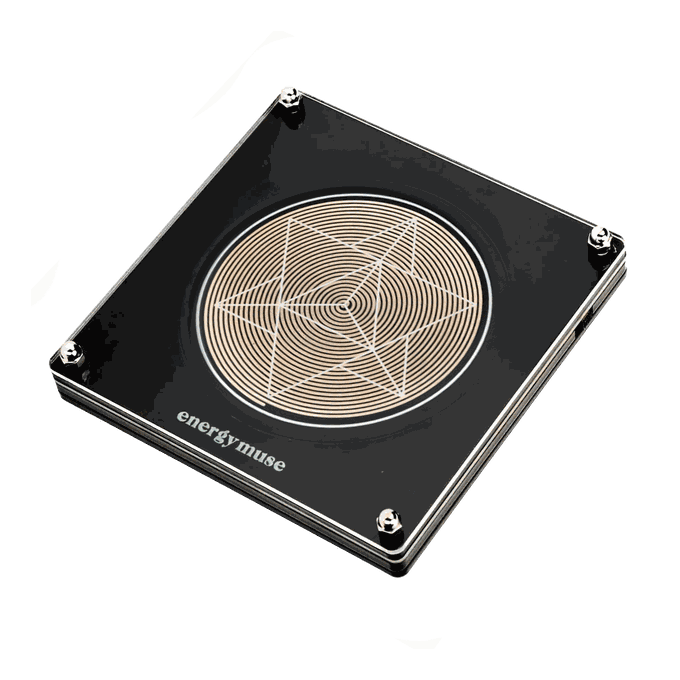
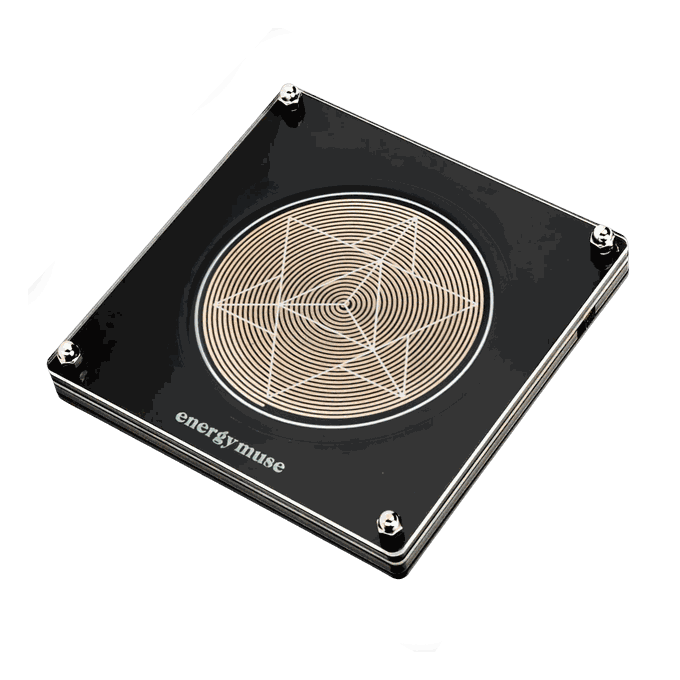
The generators stop looking like four different photo shoots
THE WISPS WERE IN THE FILE. White slashes hung around the 639Hz device on the
homepage and I went looking for the CSS drawing them — .fq-waves, .fq-core, a
resonance-ring layer. None of it had any markup on this page; the rules had
outlived their elements. The slashes were baked into 639.png itself, artefacts
left in the cut-out. Replaced from Energy Muse's own catalogue with the clean
three-quarter shot, matched to the set's framing.

THE 1111 WAS SHOT DEAD-ON while the other six are three-quarter, so it read as
a different photograph every time the ticker reached it. Their catalogue has an
angled shot of the same unit; it is in now. The body is still white where the
others are black glass — that is genuinely what the 1111 looks like, and
recolouring a real product is not on the table.

THE BOX BEHIND THE DEVICE was two things at once. #freq-poster carried
background:#070C15 against a #0B1320 section — near-black, but not the SAME
near-black, so it drew a rectangle. And the image carried border-radius and a
card box-shadow, which on a transparent cut-out shadows the BOX rather than the
object. Both gone; the generator floats on the navy with only its copper field
behind it. The dead .fqw / .fq-core / canvas rules went too.

NO HOVER ON THE GENERATOR CARDS. The lift and the image scale on /frequency/
and /systems/ jump under a cursor that crosses them mid-scroll, which reads as
a glitch rather than as feedback. Colour still responds; nothing moves.
[…]

diff --git a/index.html b/index.html
@@ -107,6 +107,17 @@ p{margin:0;}
 .eyebrow{font-family:var(--sans);font-weight:600;font-size:11.5px;letter-spacing:.28em;text-transform:uppercase;color:var(--accent);}
 .eyebrow.muted{color:var(--stone);}
 .section{padding-block:var(--step);}
+/* Two sections on the SAME ground stack their padding into a void: --step of
+   bottom pad meets --step of top pad — 308px at desktop — with no change of
+   colour to explain any of it. Where the background does change, the change
+   itself reads as the boundary and the full measure is right, which is why
+   this only shows up in the run of four plain sections in the lower half
+   (Small practices -> Everything you need -> Start with one stone -> Real
+   energy). Halve the top pad where the neighbour shares the ground. */
+.section:not(.band):not(.freq):not(.final-cta):not(.email)
+  + .section:not(.band):not(.freq):not(.final-cta):not(.email){
+  padding-top:calc(var(--step) * .42);
+}
 /* Short blocks even their lines rather than filling each one and orphaning
    whatever is left over. It cannot stop a sentence breaking, but it stops
    the break landing in the worst place available. */
@@ -819,12 +830,14 @@ body.menu-open{overflow:hidden;}
 .freq .eyebrow{color:var(--copper-hi);}
 .freq h2{color:var(--navy-text);}
 .freq .copy p{color:var(--navy-soft);}
-.freq .media{background:#070C15;}
+/* No fill. This was #070C15 against a #0B1320 section — near-black, but not
+   the SAME near-black, so it drew a visible rectangle behind a cut-out that
+   should simply float. */
+.freq .media{background:transparent;}
 /* the generator is photographed as a diamond; cover-cropping sliced its
    left and right points, so it is contained within the frame instead */
 .freq .media .t3d{overflow:visible;}
-#freq-poster{object-fit:contain!important;background:#070C15;}
-.freq .media canvas{object-fit:contain;}
+#freq-poster{object-fit:contain!important;background:transparent;}
 
 /* the readout: the number is the product, so it is set like one */
 .freq-hz{font-family:var(--serif);font-weight:300;font-size:clamp(52px,6vw,86px);
@@ -840,22 +853,19 @@ body.menu-open{overflow:hidden;}
 @keyframes signal{to{stroke-dashoffset:-52;}}
 /* live 3D device: no card box — the generator itself floats beside the copy */
 .freq .media.live3d{background:transparent;box-shadow:none;overflow:visible;border-radius:0;aspect-ratio:5/4;}
-/* wavy resonance rings: near-circular with a hint of the device's tilt, born at the coil's
-   edge and spreading outward — organic wobble, like the ripples in the hero photograph */
-.freq .fq-waves{z-index:3;transform:rotate(-8deg) scaleY(.9);}
+/* .fq-waves / .fq-core had no markup on this page at all — the resonance rings
+   were removed long ago and only their rules survived. */
 /* the room responds: a whisper of copper field breathing on the emission cycle */
 .freq .media.live3d::before{content:"";position:absolute;inset:-14%;z-index:0;border-radius:50%;pointer-events:none;
   background:radial-gradient(circle at 50% 47%,color-mix(in srgb,var(--copper) 14%,transparent),transparent 62%);
   animation:fqField 5.6s ease-in-out infinite;}
 @keyframes fqField{0%,100%{opacity:.45}50%{opacity:1}}
-.freq .fq-core{opacity:.5;width:150px;height:150px;margin:-75px 0 0 -75px;filter:blur(12px);}
-.freq .media.live3d img{position:absolute;inset:0;width:100%;height:100%;object-fit:contain;border-radius:6px;
-  box-shadow:var(--shadow-lg);transition:opacity .8s ease;z-index:1;}
+/* No radius and no shadow: the generators are cut-outs, and a box-shadow on a
+   transparent image shadows the BOX, not the object — which is what put a
+   panel round the device. */
+.freq .media.live3d img{position:absolute;inset:0;width:100%;height:100%;object-fit:contain;
+  transition:opacity .45s ease;z-index:1;}
 #freq-poster2{opacity:0;}
-.freq .media.live3d canvas{position:absolute;inset:0;width:100%!important;height:100%!important;display:block;
-  opacity:0;transition:opacity 1.2s ease;z-index:2;}
-.freq .media.live3d.live canvas{opacity:1;}
-.freq .media.live3d:hover img{transform:none;}
 .specs{display:flex;gap:12px;margin-top:30px;}
 .spec{padding:16px 20px;flex:1;position:relative;border:1px solid var(--navy-line);border-radius:6px;
   background:linear-gradient(180deg,#14212F,#0D1724);
@@ -876,7 +886,7 @@ body.menu-open{overflow:hidden;}
      full-bleed, visually small. More column, and scaled past its own padding. */
   .freq .split{grid-template-columns:1fr 1fr;}
   .freq .media.live3d{overflow:visible;}
-  .freq .media.live3d img,.freq .media.live3d canvas{transform:scale(1.34);}
+  .freq .media.live3d img{transform:scale(1.34);}
 }
 .freq .btn-ghost{color:var(--navy-text);
   border-color:color-mix(in srgb,var(--navy-text) 38%,transparent);}
@@ -1170,9 +1180,7 @@ footer.site{background:
   .hero h1 .line span{transform:none;}
   .int img{transition:none;}
   .veza-rings,.way .thumb.quiz svg,.foot-mark svg,.foot-mark img,.step .rn svg,.brand .blogo,.gemword,.mini-wave path{animation:none;}
-  .fqw path,.fq-core,.freq .media.live3d::before{animation:none;}
-  .fqw path{opacity:.22;transform:scale(1.5);}
-  .fqw path:nth-child(n+2){display:none;}
+  .freq .media.live3d::before{animation:none;}
   .steps-wave path{transition:none;stroke-dashoffset:0;}
 }
 

diff --git a/systems/index.html b/systems/index.html
@@ -34,7 +34,7 @@
 .fcell{display:flex;flex-direction:column;border:1px solid var(--hair);border-radius:5px;
   background:var(--surface);overflow:hidden;
   transition:transform .45s cubic-bezier(.16,1,.3,1),border-color .3s,box-shadow .3s}
-.fcell:hover{transform:translateY(-4px);border-color:color-mix(in srgb,var(--copper) 45%,transparent)}
+.fcell:hover{border-color:color-mix(in srgb,var(--copper) 55%,transparent)}
 .fcell .shot{aspect-ratio:16/11;background:var(--tint);display:grid;place-items:center;padding:5%}
 .fcell .shot img{width:100%;height:100%;object-fit:contain}
 .fcell .body{padding:24px 26px 26px;display:flex;flex-direction:column;flex:1}
@@ -63,7 +63,9 @@
 .pcard{display:flex;flex-direction:column;border:1px solid var(--hair);border-radius:4px;
   background:var(--surface);padding:14px 16px 18px;
   transition:transform .4s cubic-bezier(.16,1,.3,1),border-color .3s,box-shadow .3s}
-.pcard:hover{transform:translateY(-3px);border-color:color-mix(in srgb,var(--copper) 42%,transparent)}
+/* no lift on hover — see /frequency/; a card that moves under a scrolling
+   cursor reads as a glitch */
+.pcard:hover{border-color:color-mix(in srgb,var(--copper) 55%,transparent)}
 .pcard .shot{aspect-ratio:1;background:var(--tint);border-radius:3px;display:grid;place-items:center;padding:9%}
 .pcard .shot img{width:100%;height:100%;object-fit:contain}
 .pcard .kind{font-family:var(--sans);font-weight:600;font-size:10px;letter-spacing:.18em;

diff --git a/frequency/index.html b/frequency/index.html
@@ -39,8 +39,9 @@
 .fcard{display:flex;flex-direction:column;border:1px solid var(--hair);border-radius:4px;
   background:var(--surface);padding:16px 16px 18px;
   transition:transform .4s cubic-bezier(.16,1,.3,1),border-color .3s,box-shadow .3s}
-.fcard:hover{transform:translateY(-3px);border-color:color-mix(in srgb,var(--copper) 42%,transparent);
-  box-shadow:0 14px 30px rgba(61,41,23,.10)}
+/* No lift and no scale. A card that jumps under a cursor crossing it during a
+   scroll reads as a glitch, not as feedback. Colour responds; nothing moves. */
+.fcard:hover{border-color:color-mix(in srgb,var(--copper) 55%,transparent)}
 .fcard .shot{aspect-ratio:1;background:var(--tint);border-radius:3px;display:grid;place-items:center;padding:9%}
 .fcard .shot img{width:100%;height:100%;object-fit:contain}
 .fcard .hz{font-family:var(--serif);font-weight:300;font-size:30px;line-height:1;
